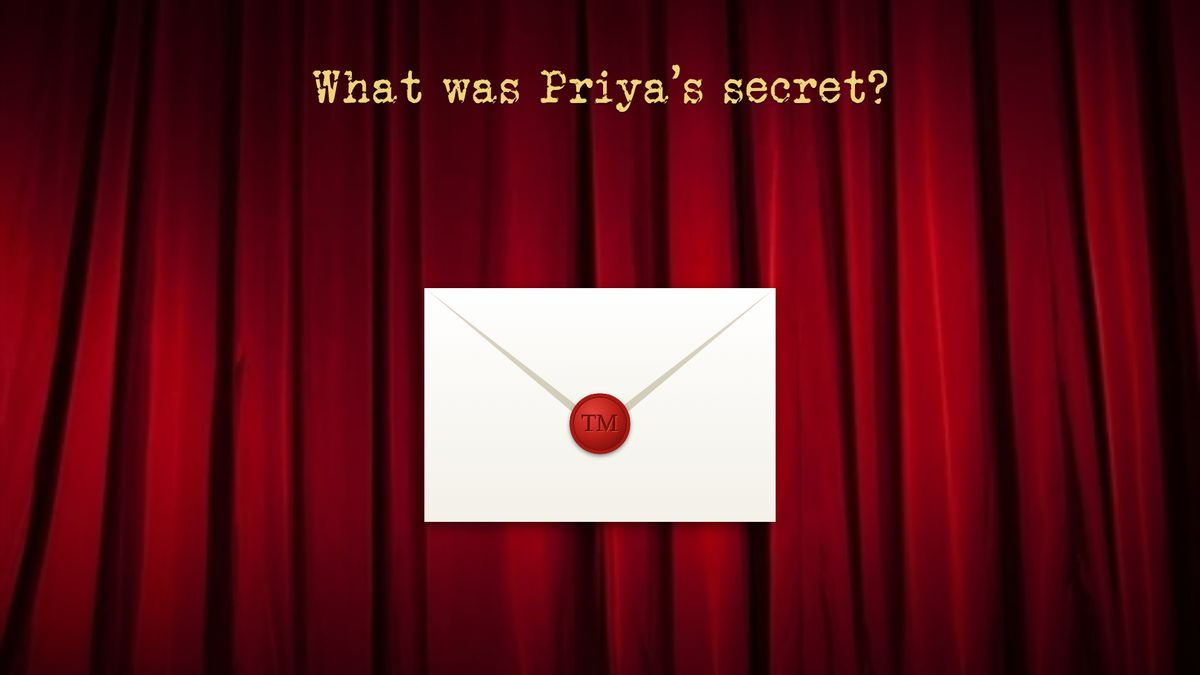
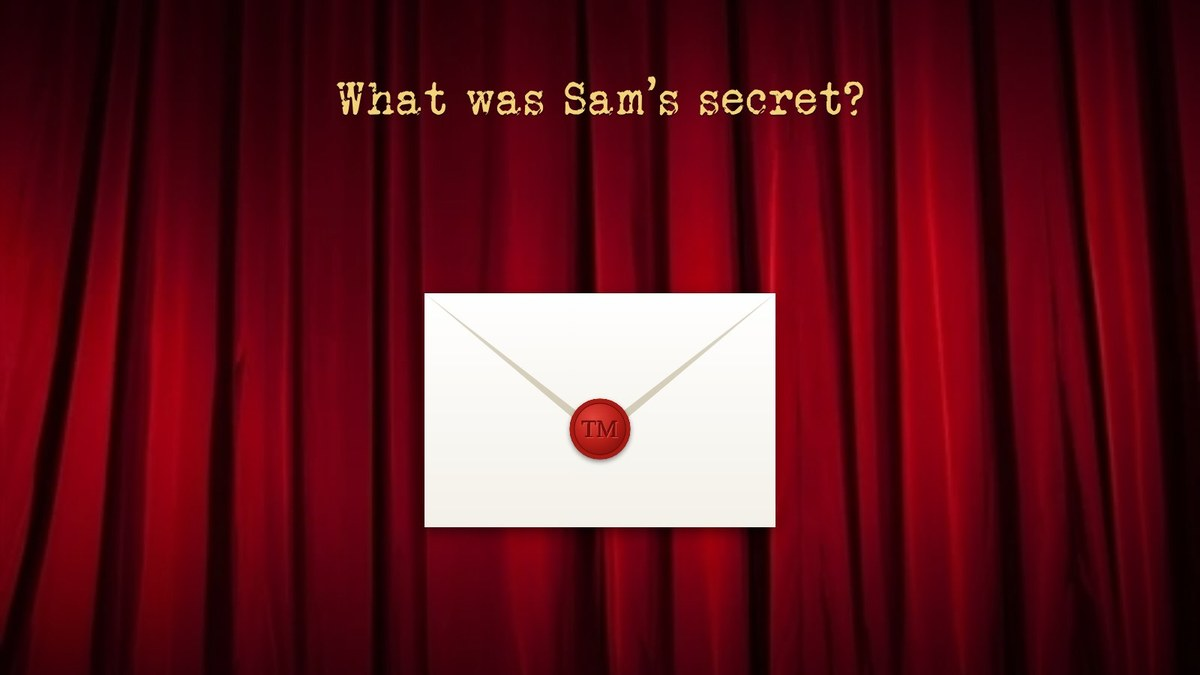
Showcase: opening picture shows Sam's sealed envelope
Claude-Session: https://claude.ai/code/session_01CSLvgAZ3J4QgTUxWWRTrZg

diff --git a/docs/guest-shots/shots.tsx b/docs/guest-shots/shots.tsx
@@ -84,9 +84,9 @@ function build() {
       picked(); task("noisemaster"); g.noisemaster = { round: midGo() }; set("display", { step: "soundboard" }); set("begun", true);
       break;
     // Secret Tasks: Sam's secret is up on the big screen; on the host's phone, everyone has theirs and Tom hasn't looked yet.
-    case "tv-secret":
+    case "tv-secret": case "tv-secret-sealed":
       picked(); task("secretTasks"); set("display", { step: "envelopes" }); set("begun", true);
-      g.secretTasks!.reveal = { order: ["sam", "alex", "greg", "mei", "priya", "tom"], index: 0, task: "Hum a tune only you know.", startedAt: 1 };
+      g.secretTasks!.reveal = { order: ["sam", "alex", "greg", "mei", "priya", "tom"], index: 0, ...(shot === "tv-secret" ? { task: "Hum a tune only you know." } : {}), startedAt: 1 };
       break;
     case "host-secret":
       picked(); task("secretTasks"); set("display", { step: "envelopes" }); set("begun", true);

diff --git a/docs/showcase/index.html b/docs/showcase/index.html
@@ -155,7 +155,7 @@ h1, h2 { font-family: var(--typewriter); font-weight: normal; letter-spacing: 0.
     <h1>Your living room is the Taskmaster's house.</h1>
     <p>One TV for the stage. A phone for every contestant. A phone for the host.</p>
     <figure>
-      <div class="frame"><img src="img/tv-secret.jpg" width="1200" height="675" alt="The TV during Secret Tasks: a sealed envelope with a red TM wax seal under the words What was Priya's secret?"></div>
+      <div class="frame"><img src="img/tv-secret.jpg" width="1200" height="675" alt="The TV during Secret Tasks: a sealed envelope with a red TM wax seal under the words What was Sam's secret?"></div>
       <figcaption class="caption">The TV, mid-reveal</figcaption>
     </figure>
   </section>

diff --git a/docs/screens/README.md b/docs/screens/README.md
@@ -33,6 +33,7 @@ Guest phone (`/play`, 390px wide), redrawn on 2026-10-18 in the host remote's la
 | `haul-main-winner.jpg` | Main screen: the Prize Haul with Alex in the centre as "Alex is the winner!" and the four prize photos hung around him with "from" placards (taken 2026-10-18 from the ABCD party, silhouette headshot) |
 | `haul-host-up.jpg` | Host phone with the haul on the big screen: "On the big screen: the prize haul", gold "Lower the curtain", "Back to the scoreboard" as a link (taken 2026-10-18 from the ABCD party) |
 | `main-secret-tasks.jpg` | Secret Tasks on the big screen: "What was Sam's secret?" over the opened envelope, the task on its paper (2026-10-18) |
+| `main-secret-sealed.jpg` | Main screen during the Secret Tasks reveal before the envelope opens: "What was Sam's secret?" over the sealed envelope with the red TM wax seal (taken 2026-10-18 from the ABCD party) |
 | `guest-secret-open.jpg` | Sam's opened envelope on the guest phone: the task on its paper, "Seal it again", the to-do list with the secret envelope "picked" (2026-10-18) |
 | `guest-noisemaster-watch.jpg` | Watching a Noisemaster turn: no card, "Alex is at the soundboard. Watch the big screen." |
 
